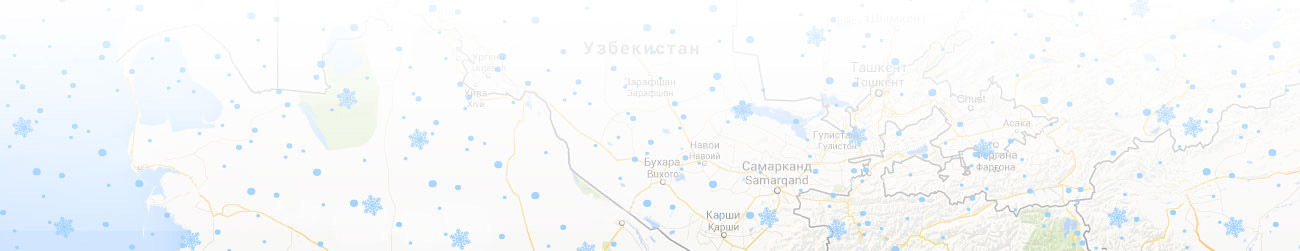
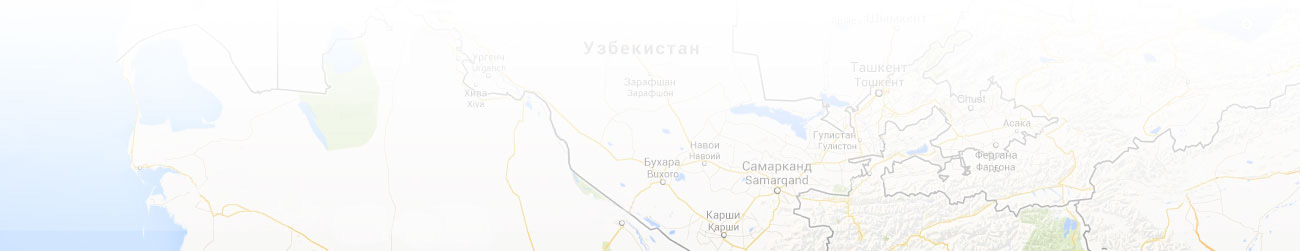
new year style

diff --git a/app/assets/stylesheets/style.css.scss b/app/assets/stylesheets/style.css.scss
@@ -190,7 +190,7 @@ a.lnk-success {
     display:none !important;
 }
 .bg-container{ /*home page */
-    background-image: asset-data-url('share/main_bg.jpg');
+    background-image: asset-data-url('share/main_bg-new-year.jpg');
     background-repeat: no-repeat;
     background-attachment: scroll;
     background-position: top;
@@ -882,7 +882,7 @@ a.navbar-brand {
   left: 0;
   bottom: 0;
   width: 100%;
-  background: asset-data-url('share/bg_btm.jpg') no-repeat center bottom transparent;
+  background: asset-data-url('share/bg_btm-new-year.jpg') no-repeat center bottom transparent;
   -webkit-background-size: 100% 100%;
   -moz-background-size: 100% 100%;
   -o-background-size: 100% 100%;
